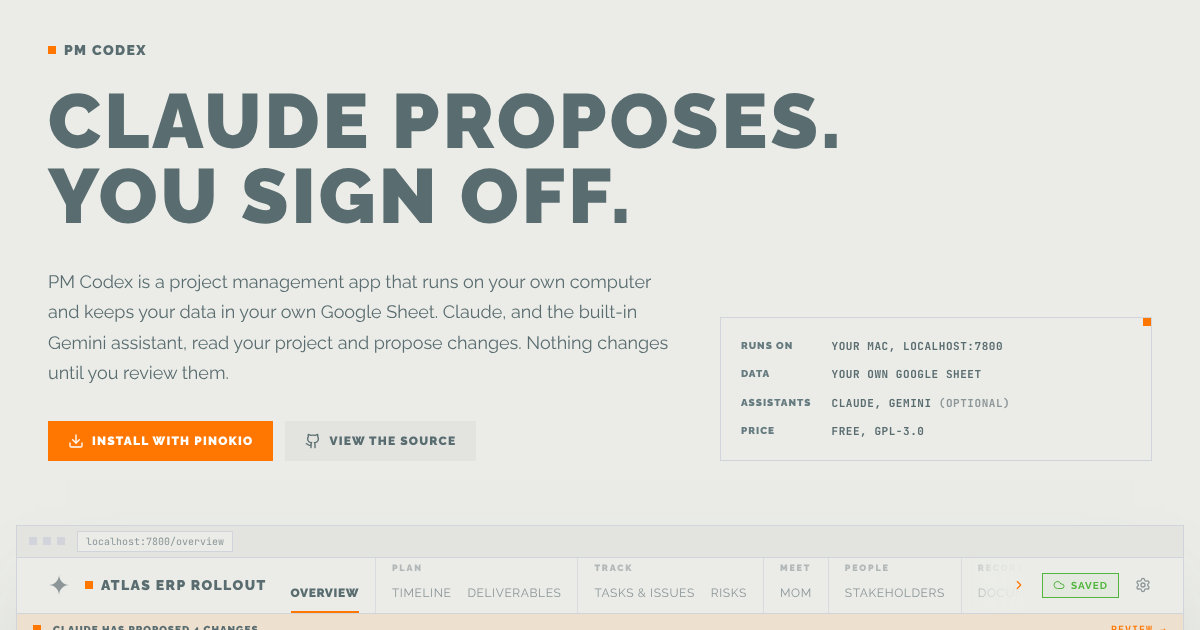
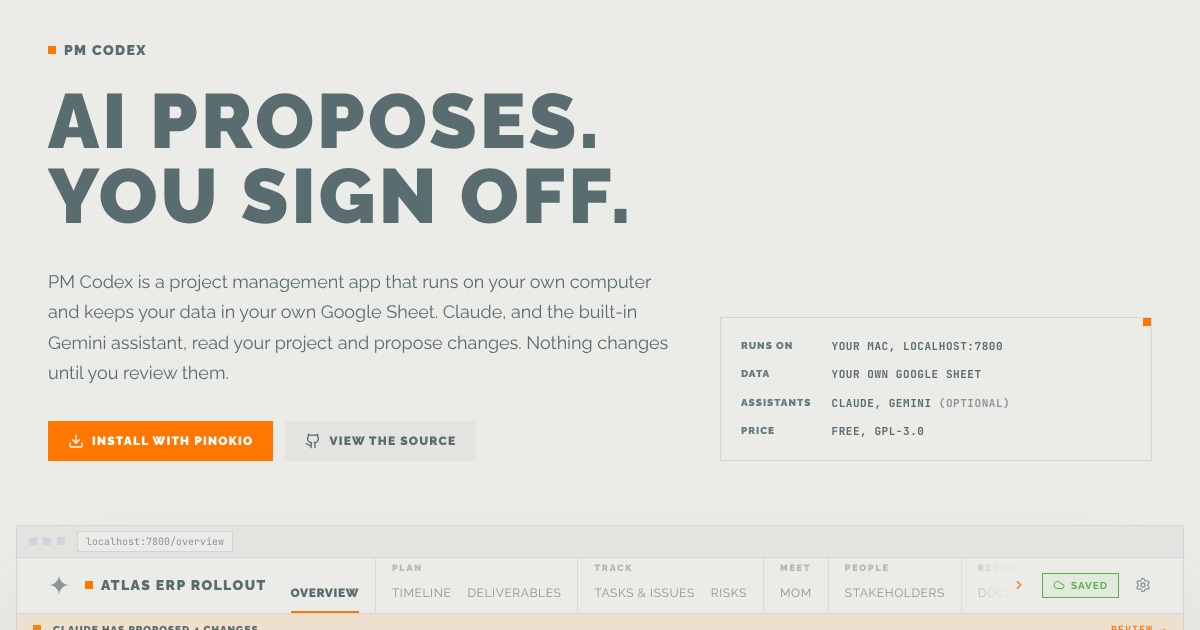
Release v1.0.3
Built from the development repo at 6040293.

Changed region(s): [[0.0308, 0.1508, 0.7092, 0.2413]]

diff --git a/docs/_src/index.src.html b/docs/_src/index.src.html
@@ -7,7 +7,7 @@
 <meta name="description" content="A free, open-source project management app that runs on your computer, keeps your data in your own Google Sheet, and works with Claude. The assistant proposes; nothing changes until you sign off.">
 <meta name="theme-color" content="#ebece7">
 <meta property="og:type" content="website">
-<meta property="og:title" content="PM Codex — Claude proposes. You sign off.">
+<meta property="og:title" content="PM Codex — AI proposes. You sign off.">
 <meta property="og:description" content="Project management on your own computer, with your data in your own Google Sheet. The assistant proposes; nothing changes until you sign off.">
 <meta property="og:url" content="https://ashvall01.github.io/PM-Codex/">
 <meta property="og:image" content="https://ashvall01.github.io/PM-Codex/og.png">
@@ -71,7 +71,7 @@
 
 <!-- ============================================================ HERO -->
 <section id="top" class="mx-auto max-w-[1280px] px-4 sm:px-8 lg:px-12 pt-12 sm:pt-20">
-  <h1 class="font-black uppercase text-qb-black leading-[0.98] tracking-[0.04em] text-[clamp(2.4rem,6.4vw,5.25rem)]">Claude proposes.<br>You sign off.</h1>
+  <h1 class="font-black uppercase text-qb-black leading-[0.98] tracking-[0.04em] text-[clamp(2.4rem,6.4vw,5.25rem)]">AI proposes.<br>You sign off.</h1>
   <div class="mt-8 grid lg:grid-cols-12 gap-10 lg:gap-12 items-end">
     <div class="lg:col-span-7">
       <p class="max-w-[58ch] text-[17px] sm:text-lg leading-[1.7] text-qb-black">PM Codex is a project management app that runs on your own computer and keeps your data in your own Google Sheet. Claude, and the built-in Gemini assistant, read your project and propose changes. Nothing changes until you review them.</p>

diff --git a/docs/index.html b/docs/index.html
@@ -8,7 +8,7 @@
 <meta name="description" content="A free, open-source project management app that runs on your computer, keeps your data in your own Google Sheet, and works with Claude. The assistant proposes; nothing changes until you sign off.">
 <meta name="theme-color" content="#ebece7">
 <meta property="og:type" content="website">
-<meta property="og:title" content="PM Codex — Claude proposes. You sign off.">
+<meta property="og:title" content="PM Codex — AI proposes. You sign off.">
 <meta property="og:description" content="Project management on your own computer, with your data in your own Google Sheet. The assistant proposes; nothing changes until you sign off.">
 <meta property="og:url" content="https://ashvall01.github.io/PM-Codex/">
 <meta property="og:image" content="https://ashvall01.github.io/PM-Codex/og.png">
@@ -73,7 +73,7 @@
 
 <!-- ============================================================ HERO -->
 <section id="top" class="mx-auto max-w-[1280px] px-4 sm:px-8 lg:px-12 pt-12 sm:pt-20">
-  <h1 class="font-black uppercase text-qb-black leading-[0.98] tracking-[0.04em] text-[clamp(2.4rem,6.4vw,5.25rem)]">Claude proposes.<br>You sign off.</h1>
+  <h1 class="font-black uppercase text-qb-black leading-[0.98] tracking-[0.04em] text-[clamp(2.4rem,6.4vw,5.25rem)]">AI proposes.<br>You sign off.</h1>
   <div class="mt-8 grid lg:grid-cols-12 gap-10 lg:gap-12 items-end">
     <div class="lg:col-span-7">
       <p class="max-w-[58ch] text-[17px] sm:text-lg leading-[1.7] text-qb-black">PM Codex is a project management app that runs on your own computer and keeps your data in your own Google Sheet. Claude, and the built-in Gemini assistant, read your project and propose changes. Nothing changes until you review them.</p>
